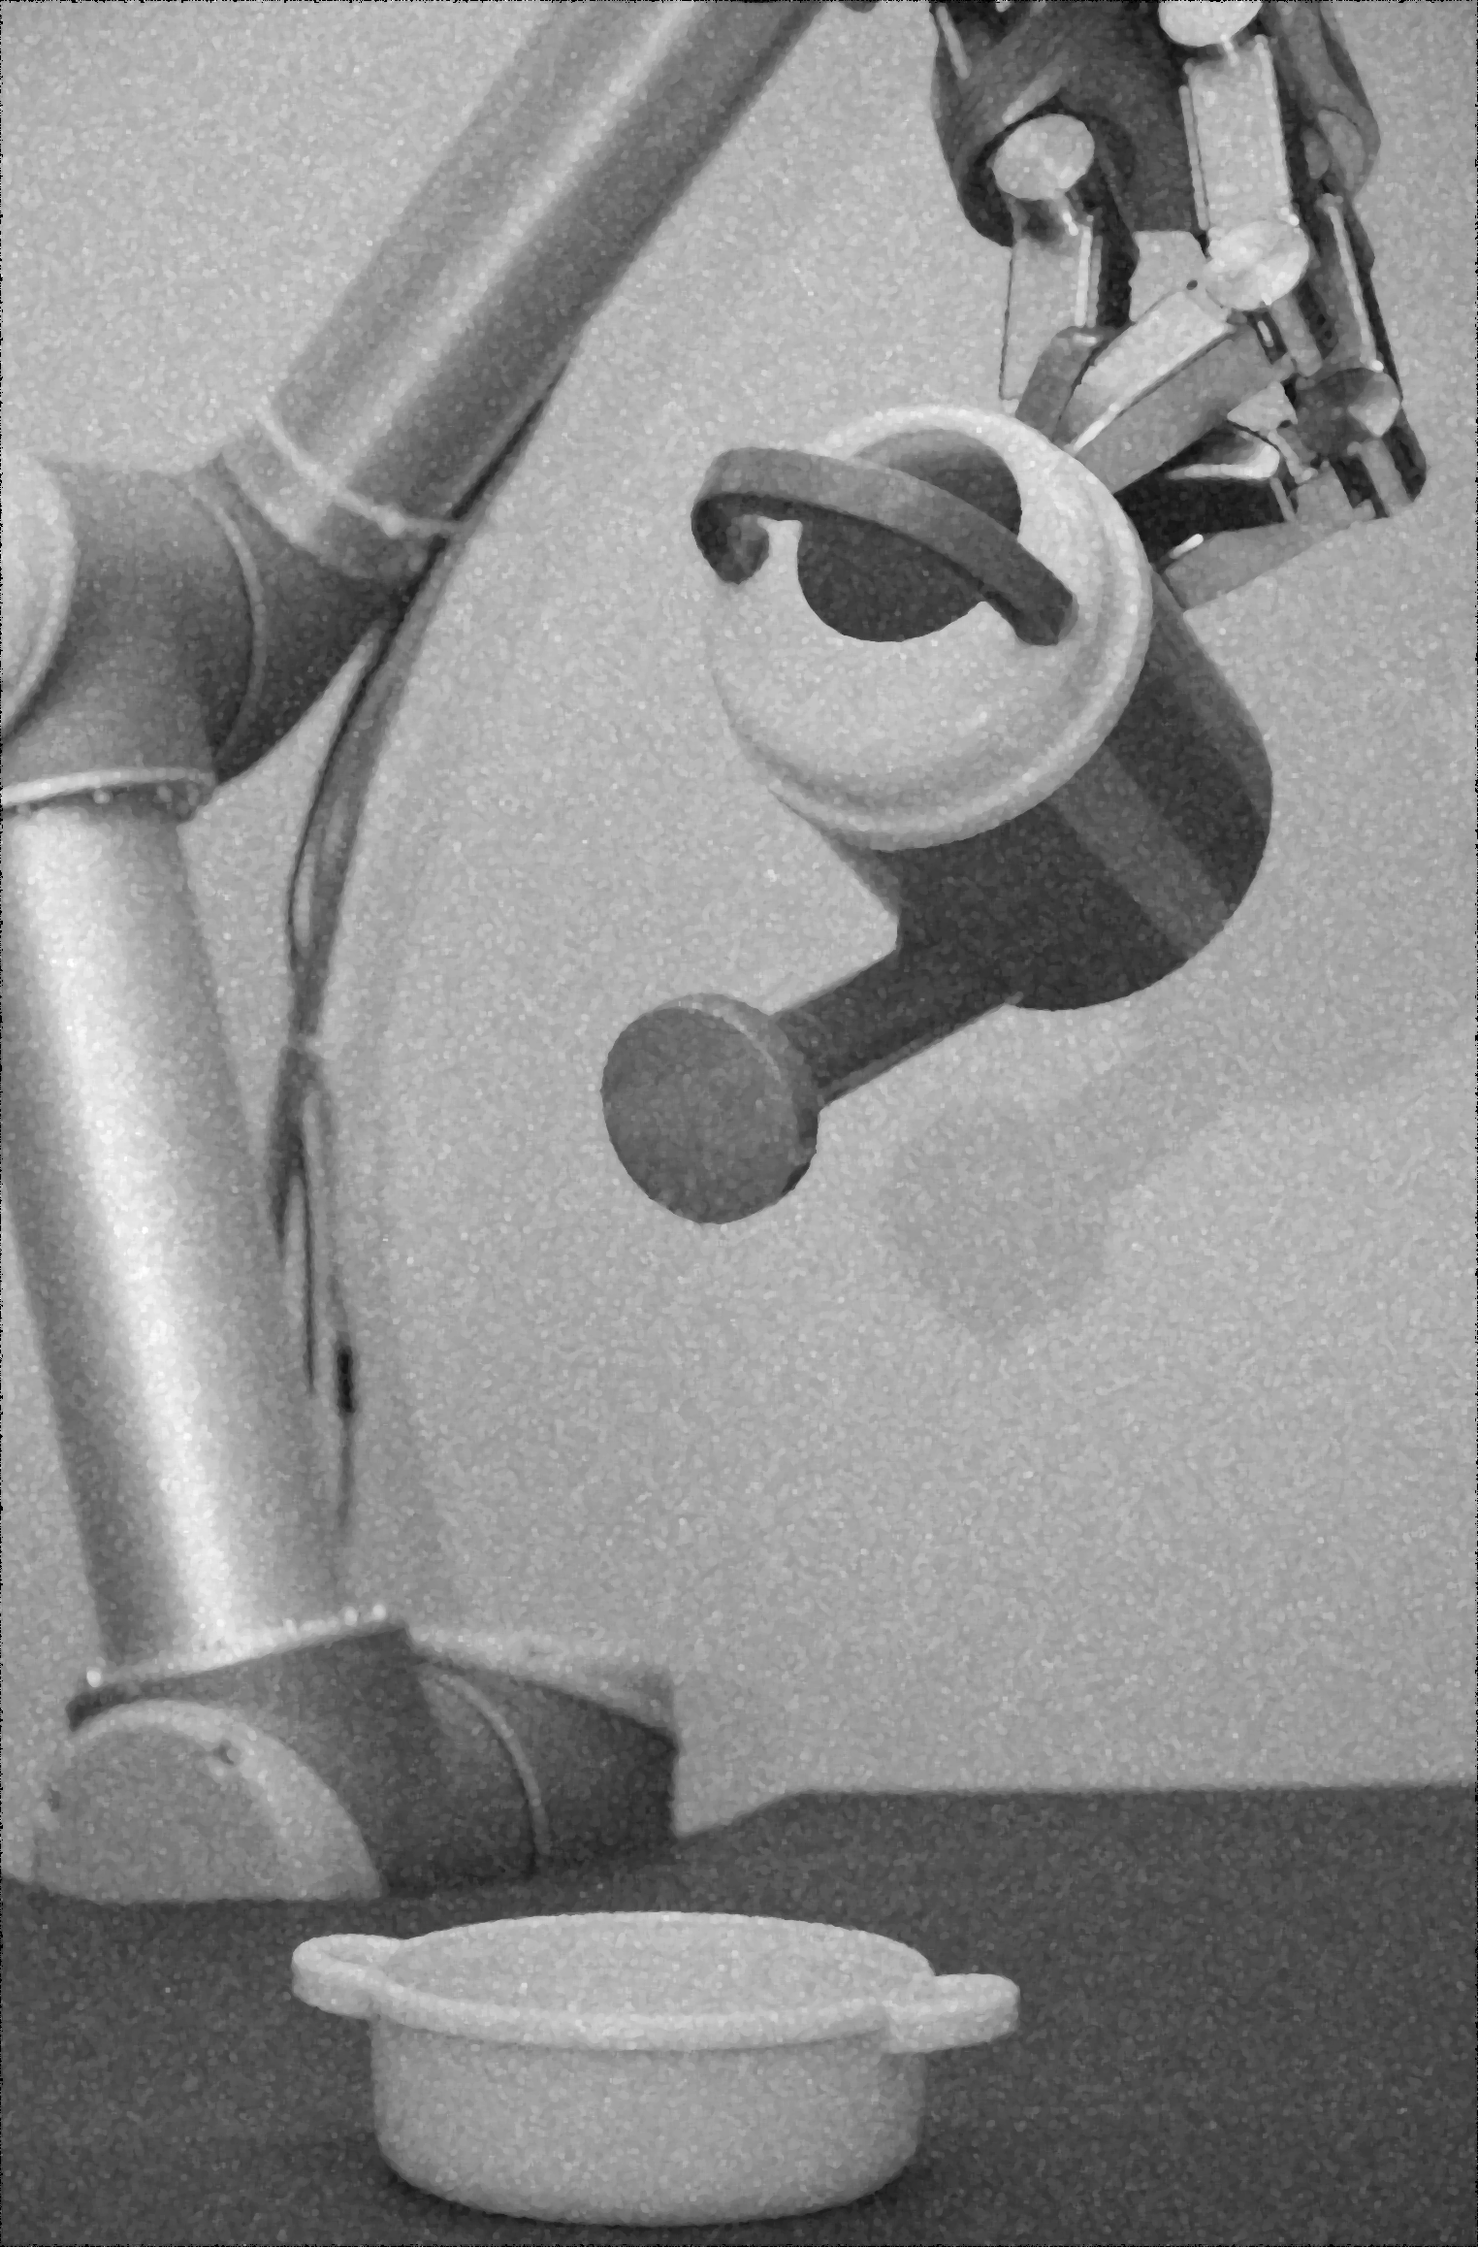
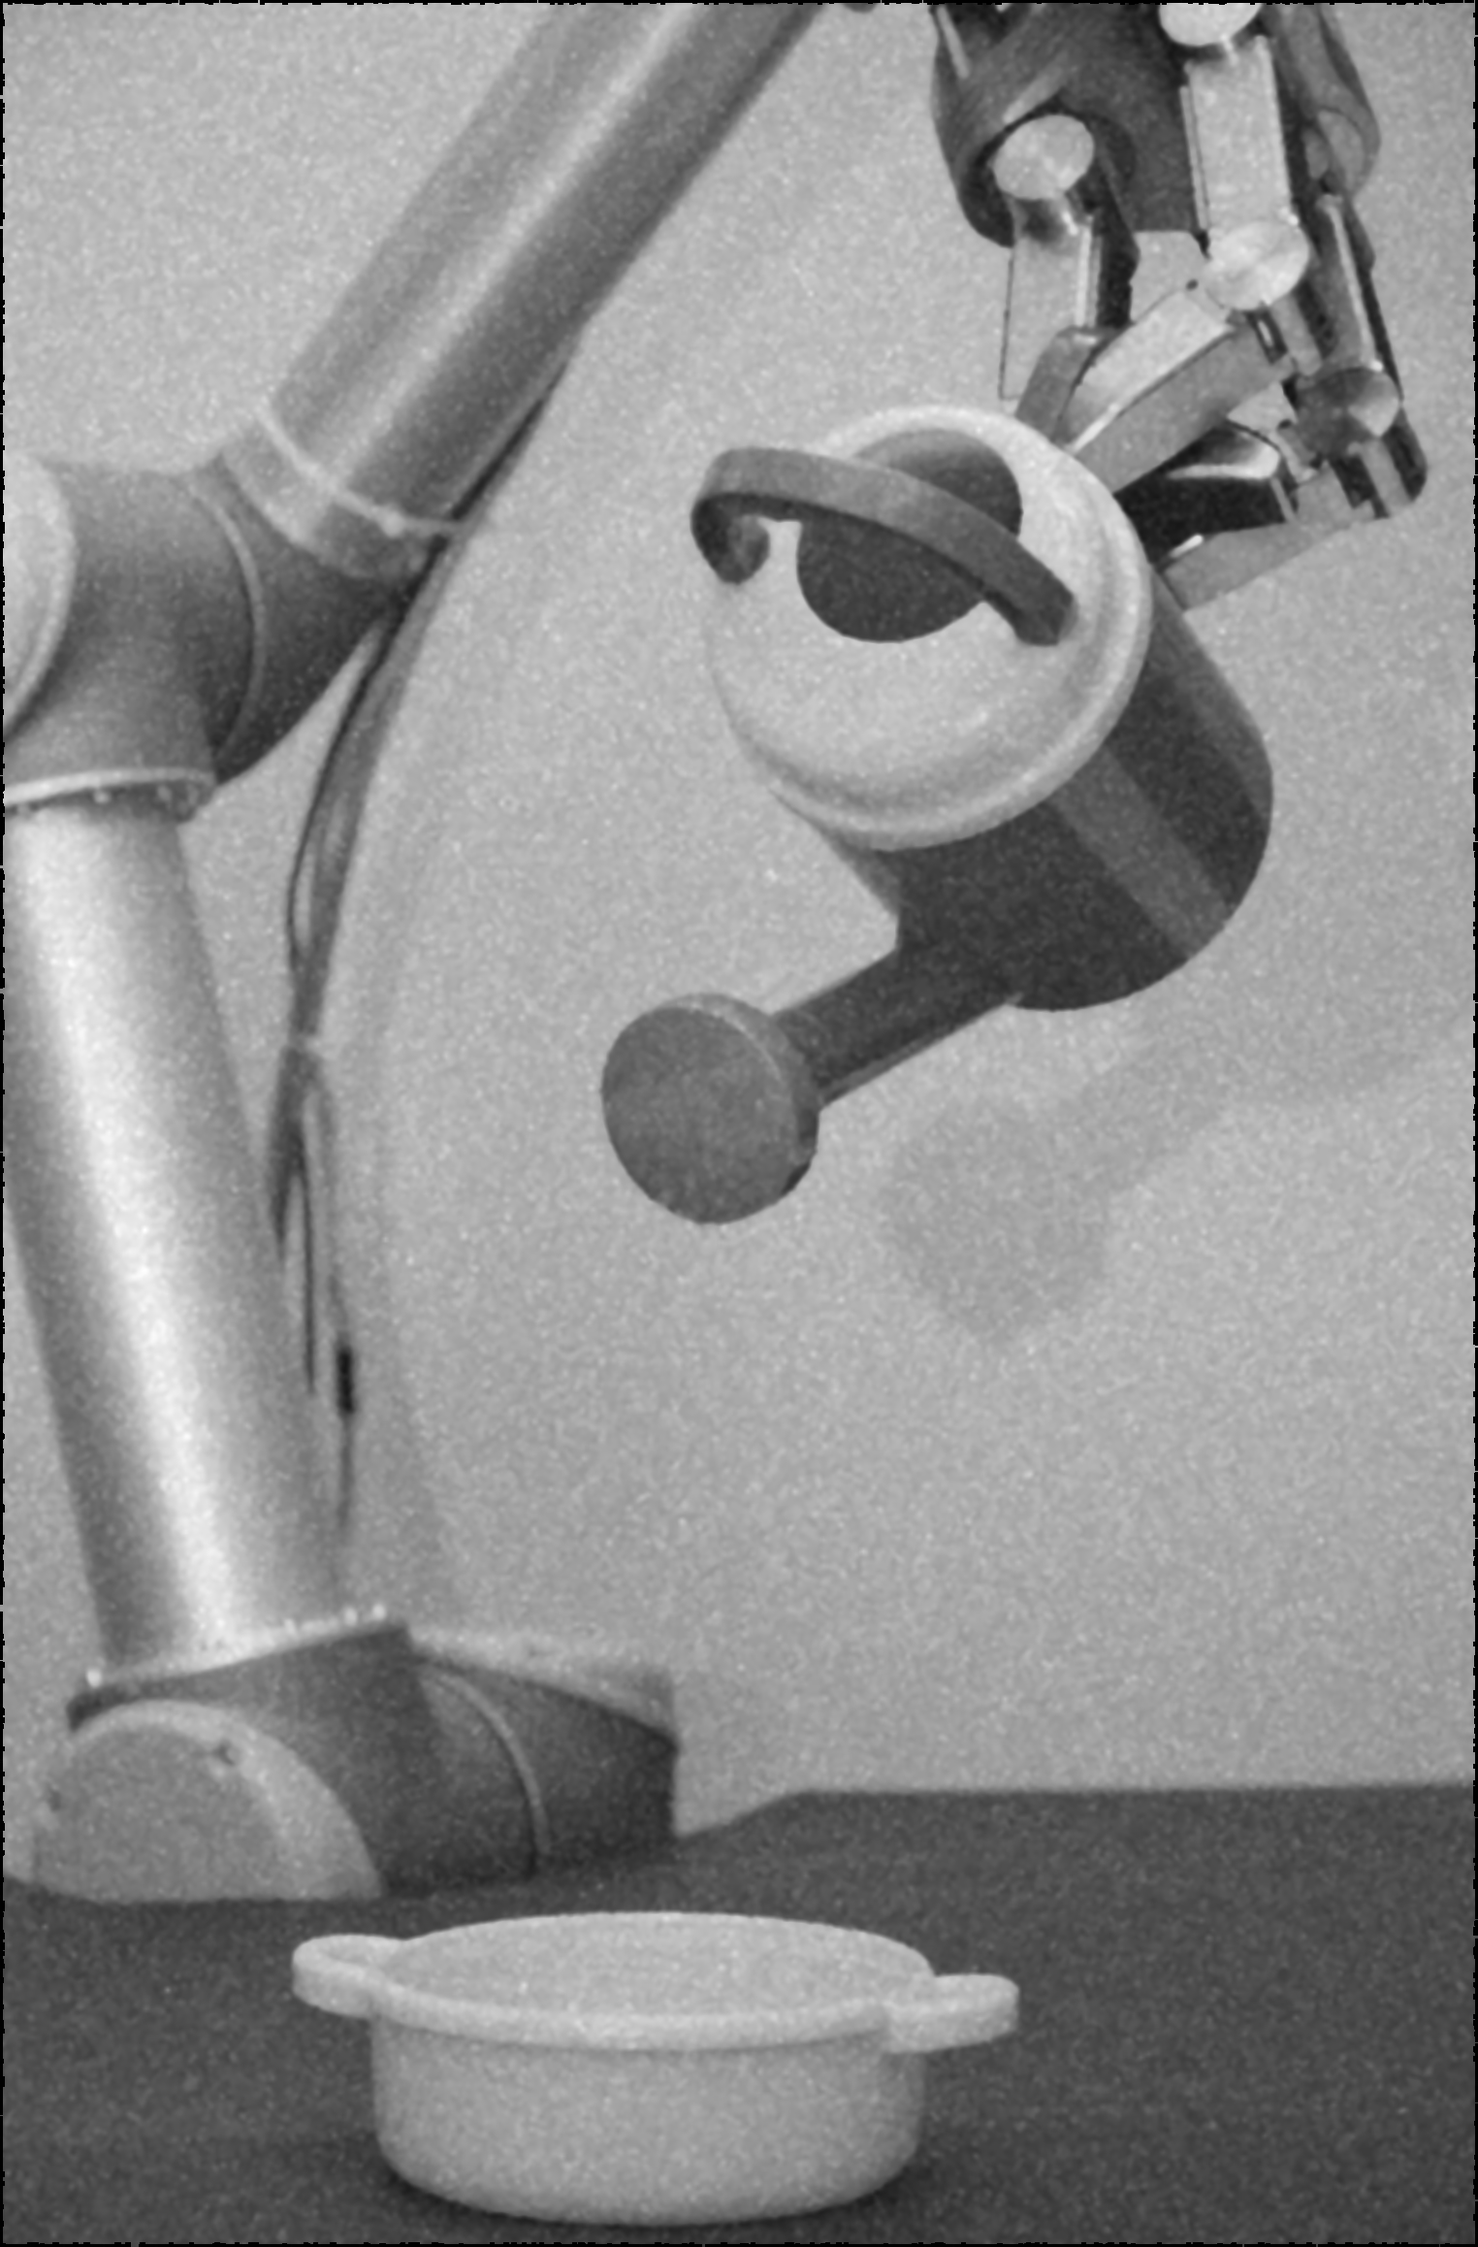
part 2

Changed region(s): [[0.0, 0.0, 1.0, 1.0]]

diff --git a/miniproject01/code/imagerestoration/part02.cpp b/miniproject01/code/imagerestoration/part02.cpp
@@ -1,26 +1,86 @@
 #include "part02.h"
 #include "part01.h" //this is bad, I only needed sp_damage...
+#include "mean_filter.h"
+
+void stat(const cv::Mat &img_src, cv::Mat &histImage, double &mean, double &var, int border=5){
+    cv::Mat temp = img_src.clone();
+    cv::Mat img = temp(cv::Rect(border,border,img_src.cols-2*border, img_src.rows-2*border));
+    temp = img.clone();
+    cv::Mat histogram;
+    cv::Mat histimg( 256, 512, CV_8UC3, cv::Scalar::all(255) );
+
+    make_histogram(img,histimg,histogram,512,256);
+    histImage = histimg.clone();
+
+    int histSize = histogram.rows;
+    long long unsigned sum = 0;
+    for(int x = 0; x < img.cols; ++x){
+        for(int y = 0; y < img.rows; ++y){
+            sum += img.at<float>(cv::Point(x,y));
+        }
+    }
+    mean = sum/(img.rows*img.cols) ;
+
+    sum = 0;
+    for(int x = 0; x < img.cols; ++x){
+        for(int y = 0; y < img.rows; ++y){
+            sum += ((img.at<float>(cv::Point(x,y))-mean)*(img.at<float>(cv::Point(x,y))-mean));
+        }
+    }
+    var = 1.0/((img.rows*img.cols) -1)  * sum;
+}
 
 void part02(cv::Mat image, cv::Mat out){
-    cv::Mat temp;
+    cv::Mat temp, temp2;
     cv::Mat org = image.clone();
-    cv::normalize(image,image,0,255,CV_MINMAX);
     cv::Mat uniform(org,AREA_UNIFORM);
-    cv::normalize(uniform,uniform,0,255,CV_MINMAX);
-    uniform.convertTo(uniform,CV_8U);
+
+    //investigate uniform area
     double quantile = what_is_the_S_P_damage(uniform,"histogram of uniform area");
-    cv::imshow("img", uniform);
-    cv::waitKey(0);
-    uniform.convertTo(uniform,CV_32F);
+    cv::imshow("Uniform area", uniform/255);
     temp = uniform.clone();
     median_filter(uniform, temp,5,1,quantile);
-    cv::normalize(temp,temp,0,255,CV_MINMAX);
-    temp.convertTo(temp,CV_8U);
-    what_is_the_S_P_damage(temp,"new hist");
-    cv::imshow("new", temp);
+    temp2 = temp.clone();
+    cv::imshow("median filter 5,1", temp / 255);
+    applyHomomorphicBlur(temp2,temp,5);
+    cv::imshow("homomophic blured", temp / 255);
+    temp2 = temp.clone();
+    double mean,var;
+    stat(temp2,temp,mean,var);
+    cv::imshow("histogram before",temp);
+    std::cout << "mean: " << mean << " var: " << var << '\n';
+    applyHomomorphicBilatteral(temp2,temp,11,var,3);
+        cv::imshow("bilateral 11, 3, homomorphic uniform", temp / 255);
+    double new_var;
+    cv::imshow("median2", temp2 / 255);
+    stat(temp2,temp,mean,new_var);
+    cv::imshow("histogram after",temp);
+    std::cout << "mean: " << mean << " var: " << new_var << '\n';
+    temp = temp2.clone();
     cv::waitKey(0);
+
+    cvDestroyAllWindows();
+    cv::Mat complex(org,AREA_COMPLEX);
+    median_filter(complex,temp,5,1,quantile);
+    temp2 = temp.clone();
+        cv::imshow("median filtered", temp / 255);
+    applyHarmonicMean(temp2,temp,5);
+    temp2 = temp.clone();
+        cv::imshow("harmonic mean", temp / 255);
+    applyHomomorphicBilatteral(temp2,temp,11,var,3);
+        cv::imshow("bilateral 11, 3, homomorphic", temp / 255);
+    temp2 = temp.clone();
+    median_filter(temp2,temp,7,3);
+        cv::imshow("median 2", temp / 255);
+    temp2 = temp.clone();
+    applyHistogramEqualization(temp2,temp,15);
+        cv::imshow("hist eq", temp / 255);
+    cv::waitKey(0);
+    return;
     //apply to large image
     median_filter(image, out,5,1,quantile);
-    cv::normalize(out,out,0,1,CV_MINMAX);
-    cv::imshow("Figure_2", out);
+    applyHarmonicMean(out, temp, 5);
+    applyHomomorphicBilatteral(temp,out,11,var,3);
+    median_filter(out,temp,7,3);
+    applyHistogramEqualization(temp,out,15);
 }

diff --git a/miniproject01/code/imagerestoration/median_filter.cpp b/miniproject01/code/imagerestoration/median_filter.cpp
@@ -3,10 +3,6 @@
 #include <opencv2/highgui/highgui.hpp>
 #include <iostream>
 void median_filter(const cv::Mat &input, cv::Mat &output, int kernel_size, int mean_width, double offset){
-//    if( (input.type() + output.type()) != 0){
-//        std::cerr << "Median_filter: The images must be <uchar>\n";
-//        throw("wrong_type");
-//    }
     int length = kernel_size*kernel_size;
     float neighbours[length];
     float temp;
@@ -25,7 +21,7 @@ void median_filter(const cv::Mat &input, cv::Mat &output, int kernel_size, int m
                 }
             }
             //sort the array
-            for(int i = 1; i<kernel_size*kernel_size;++i){
+            for(int i = 1; i<length;++i){
                 j = i;
                 while(neighbours[j] < neighbours[j-1] && j > 0){
                     temp = neighbours[j-1];
@@ -40,6 +36,58 @@ void median_filter(const cv::Mat &input, cv::Mat &output, int kernel_size, int m
             }
             mean = mean / mean_width;
             output.at<float>(y, x) = (float) mean;
+        }
+    }
+}
+
+void adaptive_median_filter(const cv::Mat &input, cv::Mat &output){
+    int kernel_size = 3;
+    int length = kernel_size*kernel_size;
+    const float threshold = 5;
+    float temp;
+    int j;
+    int middel_value;
+    int kernel_offset = kernel_size / 2;
+    float median;
+    bool finished;
+    for(int x=kernel_offset; x<input.cols-kernel_offset; ++x){ //borders are just kept; in a 3 by 3 kernel this means 1st pixel is ignored
+        for(int y=kernel_offset; y<input.rows-kernel_offset; ++y){
+            kernel_size = 3;
+            finished = false;
+            while(!finished){
+                length = kernel_size*kernel_size;
+                middel_value = length/2;
+                float neighbours[length];
+
+                //gather neighbouring pixels in array
+                for(int k_x=0;k_x<kernel_size;++k_x){
+                    for(int k_y=0; k_y<kernel_size; ++k_y){
+                        neighbours[k_x+k_y*kernel_size] = input.at<float>(y+(k_y-kernel_offset),x+(k_x-kernel_offset));
+                    }
+                }
+                //sort the array
+                for(int i = 1; i<length;++i){
+                    j = i;
+                    while(neighbours[j] < neighbours[j-1] && j > 0){
+                        temp = neighbours[j-1];
+                        neighbours[j-1] = neighbours[j];
+                        neighbours[j--] = temp;
+                    }
+                }
+                //if the midpoint is not equal to the extremes, move on, else increase kernel size
+                median = neighbours[middel_value];
+                if( (median < (neighbours[0] - threshold)) || (median > (neighbours[length] + threshold)) ){
+                    finished = true;
+                } else if( ( (y - kernel_size) < 0         ) ||
+                           ( (y + kernel_size) > input.rows) ||
+                           ( (x - kernel_size) < 0         ) ||
+                           ( (x + kernel_size) > input.cols) ){
+                    kernel_size += 2;
+                } else { //to avoid going outside borders.
+                    finished = true;
+                }
+            }
+            output.at<float>(y, x) = median;
         }
     }
 }

diff --git a/miniproject01/code/imagerestoration/part01.cpp b/miniproject01/code/imagerestoration/part01.cpp
@@ -1,5 +1,6 @@
 #include "part01.h"
 #include "analyse_freq.h"
+#include "mean_filter.h"
 
 void part01(cv::Mat_<float> &original_image, cv::Mat_<float> &output_image){
     cv::Mat org = original_image.clone();
@@ -32,11 +33,18 @@ void part01(cv::Mat_<float> &original_image, cv::Mat_<float> &output_image){
     cv::imshow("3x3 median filter", out);
 
     median_filter(complex, temp_image, 7, 3, quantile);
-    complex = temp_image.clone();
 
-    cv::normalize(temp_image,temp_image,0,255,CV_MINMAX);
-    temp_image.convertTo(temp_image,CV_8U);
+    complex = temp_image.clone();
+    cv::normalize(temp_image,temp_image,0,1,CV_MINMAX);
     cv::imshow("7x7 median filter, mean of 3", temp_image);
+
+    cv::blur(complex,temp_image,cv::Size(5,5));
+    cv::normalize(temp_image,temp_image,0,1,CV_MINMAX);
+    cv::imshow("alm smooth",temp_image);
+
+    applyHomomorphicBlur(complex,temp_image,5);
+    cv::normalize(temp_image,temp_image,0,1,CV_MINMAX);
+    cv::imshow("homomorphic filtered",temp_image);
 
     cv::waitKey(0);
     //Apply all this to the large image:
@@ -44,6 +52,8 @@ void part01(cv::Mat_<float> &original_image, cv::Mat_<float> &output_image){
     median_filter(original_image, output_image,3,1,quantile);
     temp_image = output_image.clone();
     median_filter(temp_image, output_image,7,3,quantile);
+    temp_image = output_image.clone();
+    applyHomomorphicBlur(temp_image,output_image,5);
 }
 
 double what_is_the_S_P_damage(cv::Mat &img, std::string frame){

diff --git a/miniproject01/code/imagerestoration/histogram.cpp b/miniproject01/code/imagerestoration/histogram.cpp
@@ -31,7 +31,7 @@ void make_histogram(cv::Mat &input, cv::Mat &output, cv::Mat &histogram, int his
                       CV_FILLED);
     }
     cv::Mat hist_image;
-    cv::copyMakeBorder(output, hist_image,1,1,1,1,cv::BORDER_CONSTANT, cv::Scalar::all(0));
+    cv::copyMakeBorder(output, hist_image,5,5,5,5,cv::BORDER_CONSTANT, cv::Scalar::all(0));
     output = hist_image.clone();
     histogram = hist.clone();
 }
@@ -66,7 +66,19 @@ void make_histogram_equalization(cv::Mat &image,
 
     for(int x=0; x<image.cols; ++x){
         for(int y=0; y<image.rows; ++y){
-            image.at<uchar>(y, x) = cv::saturate_cast<uchar>(new_bin[image.at<uchar>(y, x)]);
+            image.at<float>(y, x) = cv::saturate_cast<float>(new_bin[cvRound(image.at<float>(y, x))]);
         }
     }
+}
+
+void applyHistogramEqualization(cv::Mat &img_src, cv::Mat &img_out, int border){
+    cv::Mat temp = img_src.clone();
+    cv::Mat img = temp(cv::Rect(border,border,img_src.cols-2*border, img_src.rows-2*border));
+    temp = img.clone();
+    cv::Mat histogram;
+    cv::Mat histImage( 512, 512, CV_8UC3, cv::Scalar::all(255) );
+
+    make_histogram(img,histImage,histogram,512,512);
+    img_out = img.clone();
+    make_histogram_equalization(img_out, histogram);
 }

diff --git a/miniproject01/code/imagerestoration/mean_filter.cpp b/miniproject01/code/imagerestoration/mean_filter.cpp
@@ -26,7 +26,7 @@ void applyGeometricMean(cv::Mat_<float> &img_src, cv::Mat_<float> &img_dst, int 
     }
 }
 
-void applyHarmonicMean(cv::Mat_<float> &img_src, cv::Mat_<float> &img_dst, int kernelsize){
+void applyHarmonicMean(cv::Mat &img_src, cv::Mat &img_dst, int kernelsize){
     // mn/(sum(1/g()))
     cv::Mat_<float> img_result(img_src.clone());
     img_dst.copySize(img_src);
@@ -57,3 +57,16 @@ void applyArithmeticMean(cv::Mat_<float> &img_src, cv::Mat_<float> &img_dst, int
     cv::blur(img_src, img_dst, cv::Size(kernelsize,kernelsize));
 }
 
+void applyHomomorphicBlur(cv::Mat &img_src, cv::Mat &img_dst, int kernelsize){
+        cv::Mat temp_image = img_src.clone();
+        cv::log(temp_image,img_dst);
+        cv::blur(img_dst,temp_image,cv::Size(kernelsize,kernelsize));
+        cv::exp(temp_image,img_dst);
+}
+
+void applyHomomorphicBilatteral(cv::Mat &img_src, cv::Mat &img_dst, int kernelsize, double var, int depth){
+    cv::Mat temp_image = img_src.clone();
+    cv::log(temp_image,img_dst);
+    cv::bilateralFilter(img_dst,temp_image,kernelsize,var,depth);
+    cv::exp(temp_image,img_dst);
+}

diff --git a/miniproject01/code/imagerestoration/main.cpp b/miniproject01/code/imagerestoration/main.cpp
@@ -35,25 +35,25 @@ int main(){
 
 
 //    int to_run = PART(1) | PART(4);
-//    int to_run = PART(2);
-    int to_run = PART(3);
+    int to_run = PART(2);
+//    int to_run = PART(3);
 
     // part 1
     if(to_run & PART(1)){
         image = cv::imread( image_names.at(0) , CV_LOAD_IMAGE_GRAYSCALE );
 
         part01(image,out);
-
         cv::normalize(out,out,0,255,CV_MINMAX);
-        cv::imwrite("../images/image_result_1.png",out);
+        cv::imwrite("../images/image_result_1_old.png",out);
     }
     // part 2
     if(to_run & PART(2)){
         image = cv::imread( image_names.at(1) , CV_LOAD_IMAGE_GRAYSCALE );
         out = image.clone();
         part02(image, out);
-        cv::normalize(out,out,0,255,CV_MINMAX);
+//        cv::normalize(out,out,0,255,CV_MINMAX);
         cv::imwrite("../images/image_result_2.png",out);
+        return 0;
       }
     // part 3
     if(to_run & PART(3)){

diff --git a/miniproject01/code/imagerestoration/mean_filter.h b/miniproject01/code/imagerestoration/mean_filter.h
@@ -11,6 +11,10 @@
 
 void applyGeometricMean(cv::Mat_<float> &img_src, cv::Mat_<float> &img_dst, int kernelsize);
 
-void applyHarmonicMean(cv::Mat_<float> &img_src, cv::Mat_<float> &img_dst, int kernelsize);
+void applyHarmonicMean(cv::Mat &img_src, cv::Mat &img_dst, int kernelsize);
 
 void applyArithmeticMean(cv::Mat_<float> &img_src, cv::Mat_<float> &img_dst, int kernelsize);
+
+void applyHomomorphicBlur(cv::Mat &img_src, cv::Mat &img_dst, int kernelsize);
+void applyHomomorphicBilatteral(cv::Mat &img_src, cv::Mat &img_dst, int kernelsize, double var, int depth);
+

diff --git a/miniproject01/code/imagerestoration/part03.cpp b/miniproject01/code/imagerestoration/part03.cpp
@@ -27,8 +27,8 @@ void part03(cv::Mat_<float> &original_image,
 
 
     cv::Mat_<float> image_uniform_03_har(image_harmonic.clone(), AREA_UNIFORM);
-    cv::Mat histogram_har;
-    make_histogram(image_uniform_03_har,histImage_har,histogram_har,512,256);
+//    cv::Mat histogram_har;
+//    make_histogram(image_uniform_03_har,histImage_har,histogram_har,512,256);
 
     cv::Mat_<float> image_uniform_03_geo(image_geometric.clone(), AREA_UNIFORM);
     cv::Mat histogram_geo;

diff --git a/miniproject01/code/imagerestoration/histogram.h b/miniproject01/code/imagerestoration/histogram.h
@@ -5,5 +5,6 @@ void make_histogram(cv::Mat &input, cv::Mat &output, cv::Mat &histogram, int his
 
 void make_histogram_equalization(cv::Mat &image, cv::Mat &histogram);
 
+void applyHistogramEqualization(cv::Mat &img_src, cv::Mat &img_out, int border = 5);
 #endif // HISTOGRAM_H
 

diff --git a/miniproject01/code/imagerestoration/median_filter.h b/miniproject01/code/imagerestoration/median_filter.h
@@ -3,5 +3,6 @@
 
 void median_filter(const cv::Mat &input, cv::Mat &output, int kernel_size = 3, int mean_width = 1, double offset = 0.5);
 
+void adaptive_median_filter(const cv::Mat &input, cv::Mat &output);
 #endif // MEDIAN_FILTER_H
 

diff --git a/miniproject01/code/imagerestoration/part02.h b/miniproject01/code/imagerestoration/part02.h
@@ -5,6 +5,7 @@
 #include "areas.h"
 #include "histogram.h"
 #include "median_filter.h"
+#include "mean_filter.h"
 
 #pragma once
 
